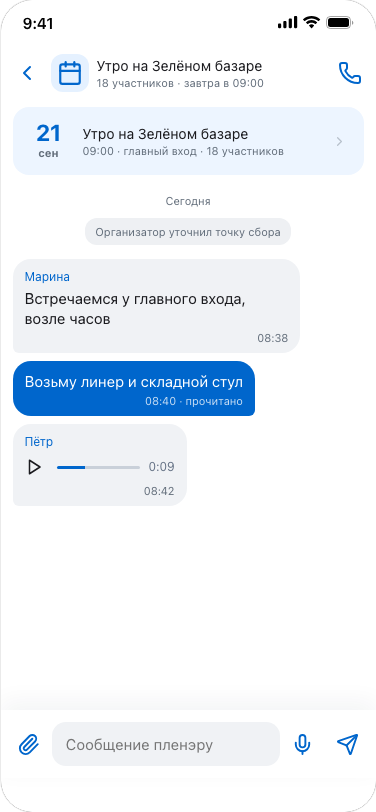
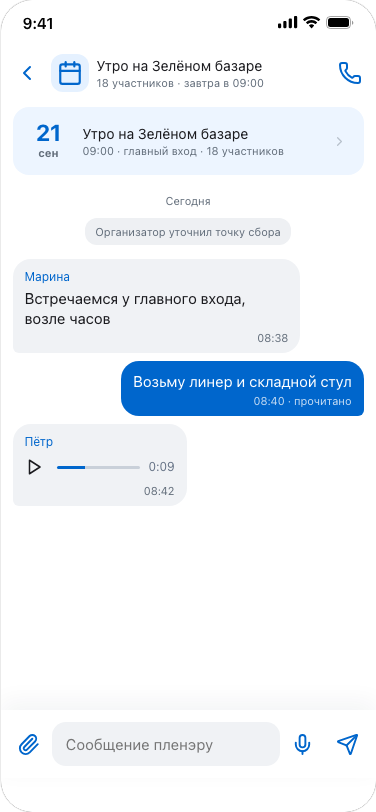
Align outgoing chat bubbles to the right

Changed region(s): [[0.0293, 0.431, 0.9654, 0.5234]]

diff --git a/platform/concepts/podacha/styles.css b/platform/concepts/podacha/styles.css
@@ -1993,7 +1993,7 @@
 .p-messenger .p-system-message { margin: 8px auto 14px; padding: 6px 10px; border-radius: 12px; background: #f2ece7; font-size: 11px; }
 .p-messenger .p-bubble { max-width: 82%; margin: 8px 0; padding: 10px 12px 8px; gap: 3px; border-radius: 18px; background: var(--p-chat-surface); font-size: 15px; line-height: 20px; }
 .p-messenger .p-bubble.incoming { border-bottom-left-radius: 6px; }
-.p-messenger .p-bubble.outgoing { border-bottom-right-radius: 6px; background: var(--p-chat-accent-soft); }
+.p-messenger .p-bubble.outgoing { margin-left: auto; border-bottom-right-radius: 6px; background: var(--p-chat-accent-soft); }
 .p-messenger .p-bubble b { color: var(--p-chat-food); font-size: 12px; line-height: 16px; }
 .p-messenger .p-bubble time { font-size: 11px; line-height: 14px; }
 .p-messenger .p-composer { min-height: 68px; padding: 8px 6px; grid-template-columns: 44px minmax(0,1fr) 44px 44px; gap: 1px; background: #fff; box-shadow: 0 -8px 24px rgba(55,39,28,.05); }

diff --git a/platform/concepts/shtrikh/styles.css b/platform/concepts/shtrikh/styles.css
@@ -3066,7 +3066,7 @@
 .s-messenger .s-system-message { margin: 8px auto 14px; padding: 6px 10px; border-radius: 12px; background: #eef0f3; font-size: 11px; }
 .s-messenger .s-bubble { max-width: 82%; margin: 8px 0; padding: 10px 12px 8px; gap: 3px; border-radius: 18px; background: var(--s-chat-surface); font-size: 15px; line-height: 20px; }
 .s-messenger .s-bubble.incoming { border-bottom-left-radius: 6px; }
-.s-messenger .s-bubble.outgoing { border-bottom-right-radius: 6px; background: var(--s-chat-accent); color: #fff; }
+.s-messenger .s-bubble.outgoing { margin-left: auto; border-bottom-right-radius: 6px; background: var(--s-chat-accent); color: #fff; }
 .s-messenger .s-bubble.outgoing time { color: rgba(255,255,255,.78); }
 .s-messenger .s-bubble b { color: var(--s-chat-accent); font-size: 12px; line-height: 16px; }
 .s-messenger .s-bubble time { font-size: 11px; line-height: 14px; }

diff --git a/platform/concepts/stol/styles.css b/platform/concepts/stol/styles.css
@@ -1814,7 +1814,7 @@
 .st-messenger .st-system-message { margin: 8px auto 14px; padding: 6px 10px; border-radius: 12px; background: #eef0f3; font-size: 11px; }
 .st-messenger .st-bubble { max-width: 82%; margin: 8px 0; padding: 10px 12px 8px; gap: 3px; border-radius: 18px; background: var(--st-chat-surface); font-size: 15px; line-height: 20px; }
 .st-messenger .st-bubble.incoming { border-bottom-left-radius: 6px; }
-.st-messenger .st-bubble.outgoing { border-bottom-right-radius: 6px; background: var(--st-chat-accent-soft); }
+.st-messenger .st-bubble.outgoing { margin-left: auto; border-bottom-right-radius: 6px; background: var(--st-chat-accent-soft); }
 .st-messenger .st-bubble b { color: var(--st-chat-accent); font-size: 12px; line-height: 16px; }
 .st-messenger .st-bubble time { font-size: 11px; line-height: 14px; }
 .st-messenger .st-bubble.voice { min-width: 172px; }
